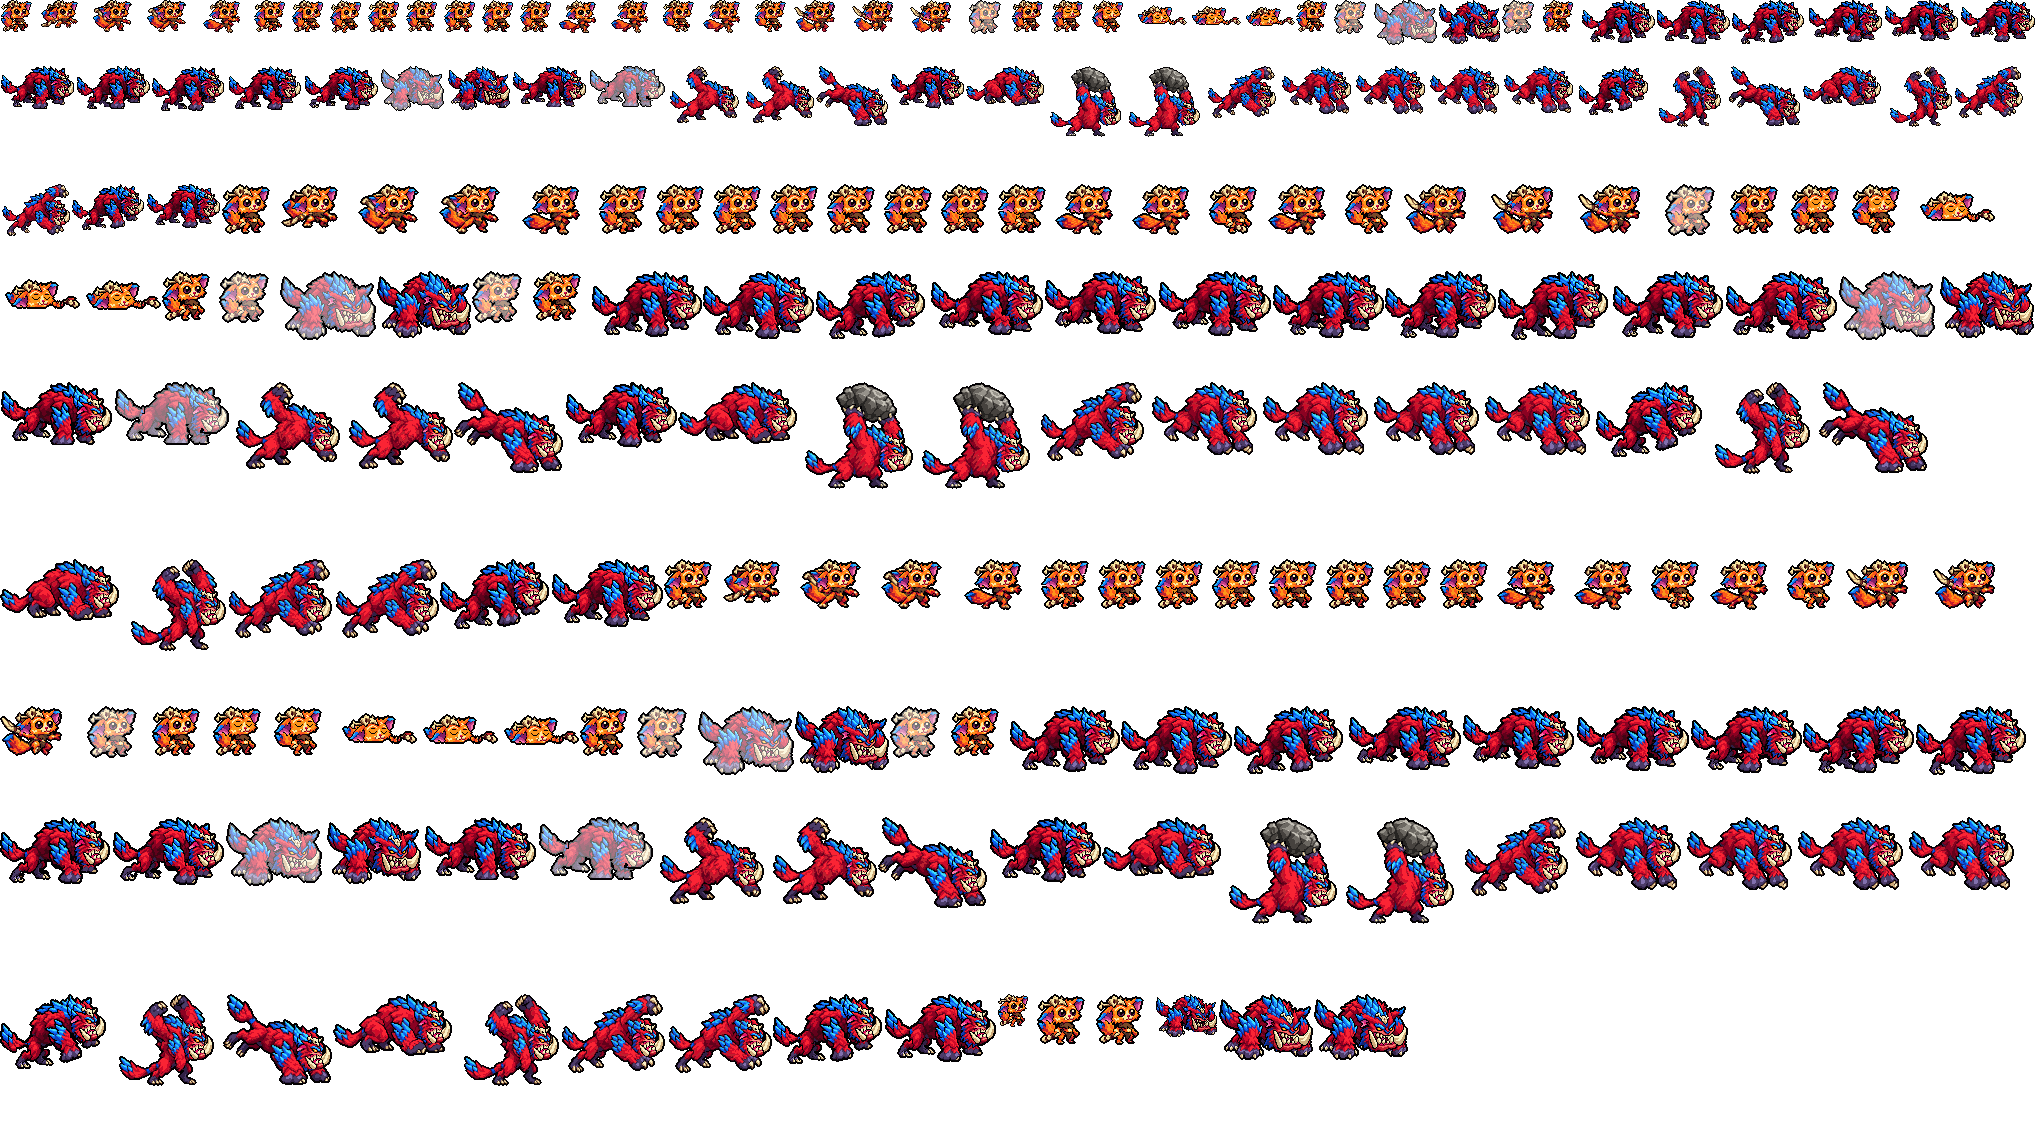
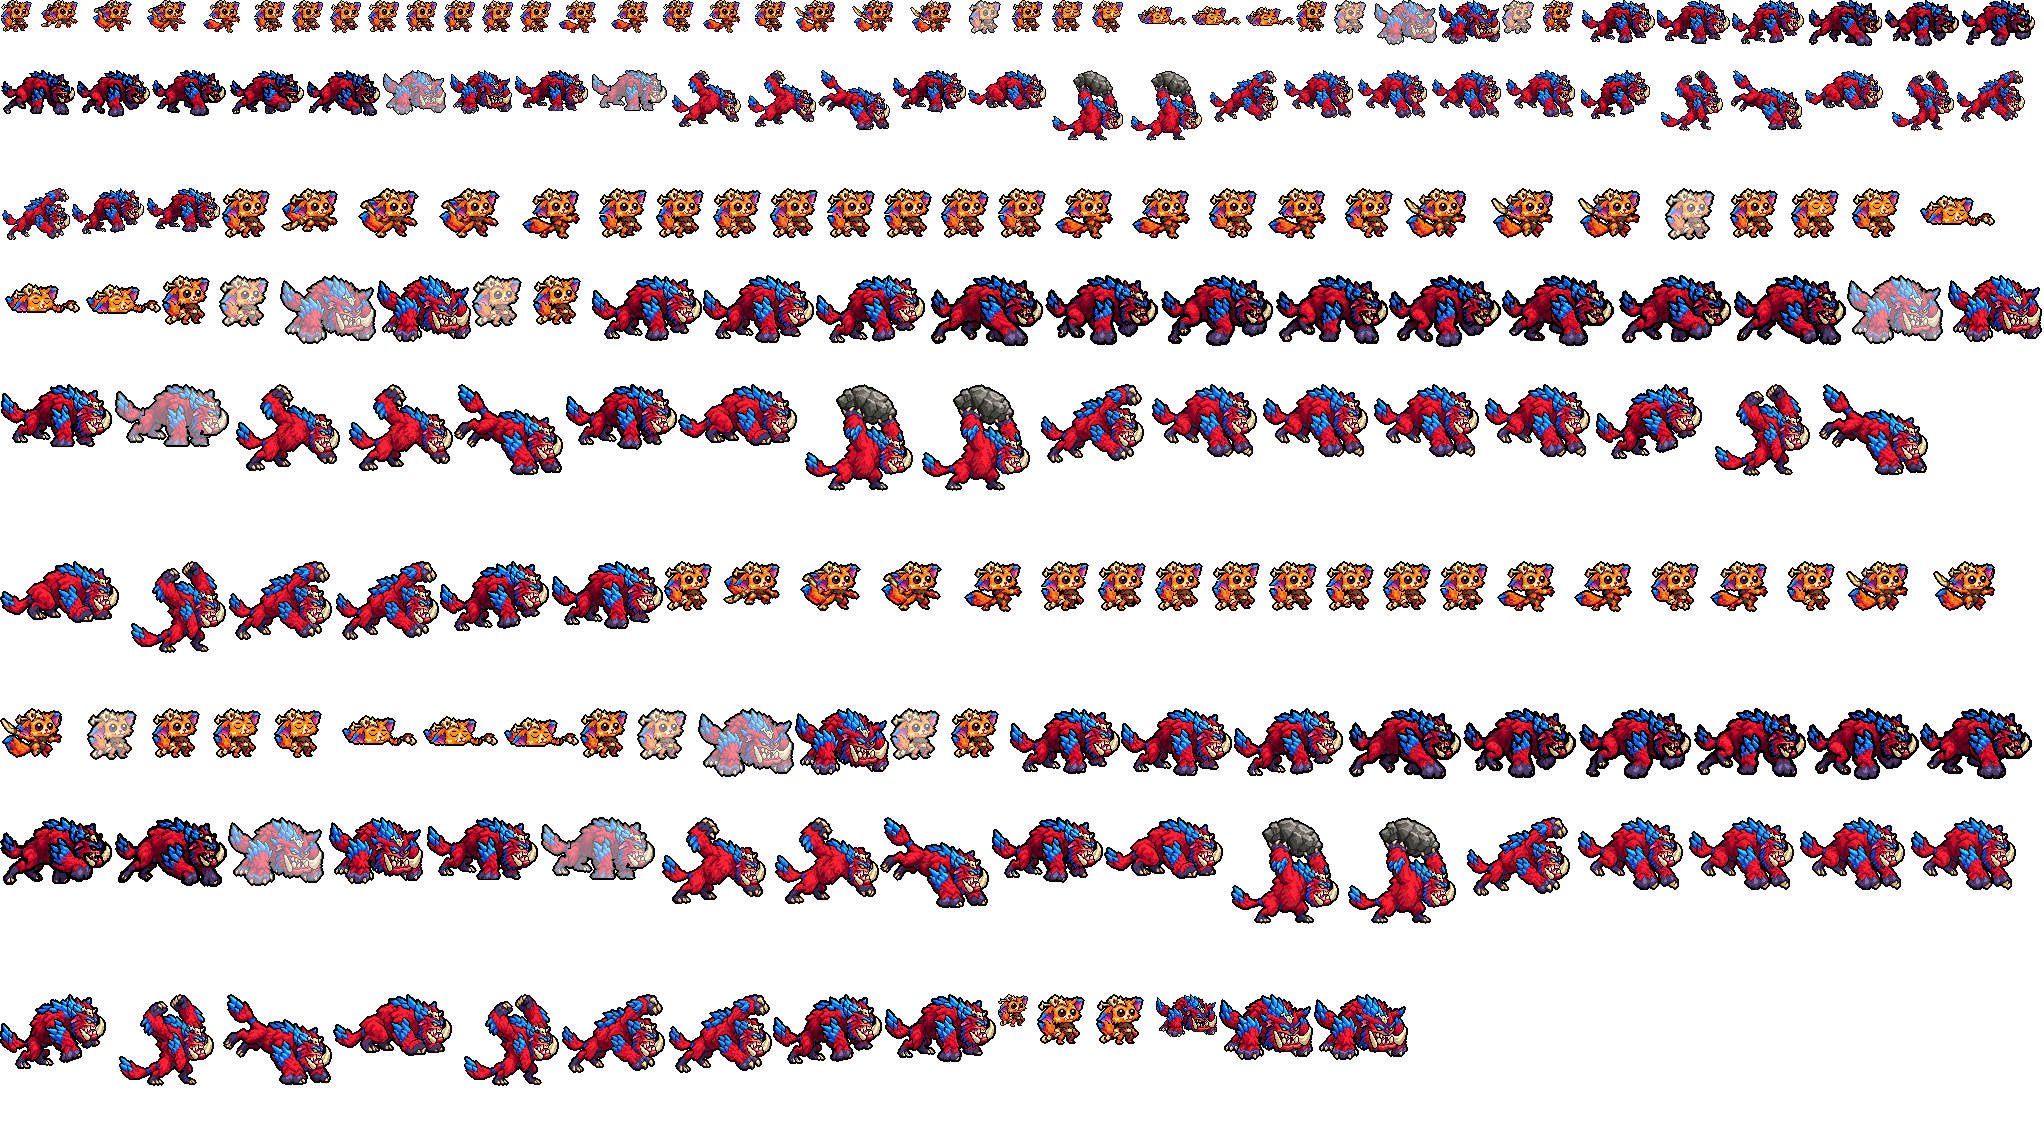
巨型纳尔的跑步换成 Codex 重画的那版
用户：「不然你让codex帮忙 这个大纳尔」「纳尔重画的也交付了」。Codex 交的 mega-gnar-run-v2.png（2 行 × 4 格，每格 448×312）
不是整齐的像素网格（3–5 像素一块）：tools/art/read_gnar_mega_run.py 按 3.75 像素一格投票读回、颜色归到设计图的 31 种、
脚对齐地面、横向按绑骨那版对齐，存成 assets/source/gnar/codex_mega_run/frames；rig_gnar.py 看到这 8 张就拿它们当 m_run
（绑骨那版留着，GNAR_RIG_RUN=1 时用）。照原来的拼法只换 m_run / hd_m_run / lo_m_run，别的标签逐像素不变。
面具和獠牙、晶刺、整个身子的像素数 8 帧里波动都在 5% 左右（姿势遮挡），没有忽大忽小。

diff --git a/tools/art/read_gnar_mega_run.py b/tools/art/read_gnar_mega_run.py
@@ -1,0 +1,114 @@
+#!/usr/bin/env python3
+"""巨型纳尔跑步的 Codex 重画读回来（用户 2026-11-22：「不然你让codex帮忙 这个大纳尔」「纳尔重画的也交付了」）。
+
+Codex 交的是 assets/source/gnar/codex_mega_run/mega-gnar-run-v2.png：2 行 × 4 格，每格 448×312，一格一帧，透明度干净，
+但「像素」不是一张整齐的网格（3–5 像素一块，缩放过）。这里：
+
+1. 每帧按 SCALE 像素一格（身子宽度和设计对上）切格投票：过半透明就透明，否则取最多的那个颜色；
+2. 每格的颜色换成设计图（assets/source/gnar/hd/m_side.png）里最接近的那个，生图的杂色不留；
+3. 放进 rig_gnar.py 的画布：横向让外框中心和绑骨那版同一帧对上，竖向让 8 帧里最低的脚落在地面（GY 上一行），
+   帧和帧之间 Codex 画的上下起伏原样保留；
+4. 写 assets/source/gnar/codex_mega_run/frames/m_run_<1..8>.png（画布大小）。rig_gnar.py 看到这 8 张就拿它们当 m_run。
+
+    python tools/art/read_gnar_mega_run.py [--preview DIR]
+"""
+import argparse
+import os
+import sys
+
+import numpy as np
+from PIL import Image
+
+HERE = os.path.dirname(os.path.abspath(__file__))
+ROOT = os.path.dirname(os.path.dirname(HERE))
+sys.path.insert(0, HERE)
+SRC = os.path.join(ROOT, "assets", "source", "gnar", "codex_mega_run", "mega-gnar-run-v2.png")
+OUT = os.path.join(ROOT, "assets", "source", "gnar", "codex_mega_run", "frames")
+DESIGN = os.path.join(ROOT, "assets", "source", "gnar", "hd", "m_side.png")
+CELL = (448, 312)
+SCALE = 3.75
+
+
+def palette():
+    d = np.array(Image.open(DESIGN).convert("RGBA"))
+    cols = np.unique(d[d[..., 3] > 0][:, :3], axis=0)
+    return cols.astype(int)
+
+
+def read(cell, pal, scale, ox, oy):
+    H, W = cell.shape[:2]
+    h, w = int((H - oy) // scale), int((W - ox) // scale)
+    out = np.zeros((h, w, 4), np.uint8)
+    for ty in range(h):
+        y0, y1 = int(oy + ty * scale), int(oy + (ty + 1) * scale)
+        for tx in range(w):
+            x0, x1 = int(ox + tx * scale), int(ox + (tx + 1) * scale)
+            blk = cell[y0:y1, x0:x1].reshape(-1, 4)
+            opq = blk[blk[:, 3] > 0]
+            if len(opq) * 2 < len(blk):
+                continue
+            cols, cnt = np.unique(opq[:, :3], axis=0, return_counts=True)
+            c = cols[int(np.argmax(cnt))].astype(int)
+            k = int(np.argmin(((pal - c) ** 2).sum(1)))
+            out[ty, tx] = (*pal[k], 255)
+    return out
+
+
+def best_read(cell, pal):
+    """原图本来就没有整齐的网格，偏移试不出更好的：从左上角切。"""
+    return read(cell, pal, SCALE, 0, 0)
+
+
+def bbox(a):
+    ys, xs = np.nonzero(a[..., 3] > 0)
+    return xs.min(), xs.max(), ys.min(), ys.max()
+
+
+def main():
+    ap = argparse.ArgumentParser()
+    ap.add_argument("--preview")
+    a = ap.parse_args()
+    os.environ["GNAR_RIG_RUN"] = "1"                  # 对齐用绑骨那版，不用已经读回的 Codex 帧
+    import rig_gnar as RG
+    C = RG.Canvas()
+    guide = RG.frames_all(C)["m_run"]
+    sheet = np.array(Image.open(SRC).convert("RGBA"))
+    pal = palette()
+    frames = []
+    for k in range(8):
+        x0, y0 = (k % 4) * CELL[0], (k // 4) * CELL[1]
+        frames.append(best_read(sheet[y0:y0 + CELL[1], x0:x0 + CELL[0]], pal))
+    low = max(bbox(f)[3] for f in frames)
+    out = []
+    for k, f in enumerate(frames):
+        gx0, gx1, _, _ = bbox(guide[k])
+        fx0, fx1, _, _ = bbox(f)
+        dx = int(round((gx0 + gx1) / 2 - (fx0 + fx1) / 2))
+        dy = (C.rig.GY - 1) - low
+        can = C.blank()
+        ys, xs = np.nonzero(f[..., 3] > 0)
+        can[ys + dy, xs + dx] = f[ys, xs]
+        out.append(can)
+    os.makedirs(OUT, exist_ok=True)
+    for k, can in enumerate(out):
+        Image.fromarray(can).save(os.path.join(OUT, f"m_run_{k + 1}.png"))
+    print("read back:", [f.shape[:2] for f in frames], "-> canvas", out[0].shape[:2], "palette", len(pal))
+    if a.preview:
+        os.makedirs(a.preview, exist_ok=True)
+        x0 = min(bbox(c)[0] for c in out) - 2
+        x1 = max(bbox(c)[1] for c in out) + 3
+        y0 = min(bbox(c)[2] for c in out) - 2
+        y1 = C.rig.GY + 2
+        tiles = [c[y0:y1, x0:x1] for c in out]
+        z = 3
+        W = sum(t.shape[1] + 2 for t in tiles)
+        im = Image.new("RGBA", (W, y1 - y0), (96, 112, 96, 255))
+        x = 0
+        for t in tiles:
+            im.alpha_composite(Image.fromarray(t), (x, 0))
+            x += t.shape[1] + 2
+        im.resize((W * z, (y1 - y0) * z), Image.NEAREST).save(os.path.join(a.preview, "codex_m_run_read.png"))
+
+
+if __name__ == "__main__":
+    main()

diff --git a/tools/art/rig_gnar.py b/tools/art/rig_gnar.py
@@ -738,6 +738,11 @@ def frames_all(C):
         mrun.append(mega(C, theta=B_THETA[i], dx=B_SURGE[i], lift=bob, tail_dy=B_TAIL[i],
                          legs={"near_hind": near_h, "far_fore": far_f, "far_hind": far_h, "near_fore": near_f}))
     out["m_run"] = mrun
+    # Codex 重画的跑步（用户 11-22：「不然你让codex帮忙 这个大纳尔」）：tools/art/read_gnar_mega_run.py 读回、放好在这张画布上的
+    # 8 帧，在就用它们（上面绑出来的那版留着，读回时拿它对齐）
+    codex = [os.path.join(SRC, "codex_mega_run", "frames", f"m_run_{k}.png") for k in range(1, 9)]
+    if all(os.path.isfile(f) for f in codex) and not os.environ.get("GNAR_RIG_RUN"):
+        out["m_run"] = [np.array(Image.open(f).convert("RGBA")) for f in codex]
     out["m_hit"] = [m34(C, dx=-2, flash=True), m34(C, dx=-1)]
     out["m_dead"] = [mega(C, theta=-6), mega(C, theta=-8, flash=True), mini(C, flash=True)] + out["dead"][2:]
     # theta turns the whole upper body - torso, crests and both front arms as Codex drew them - counter-clockwise about
